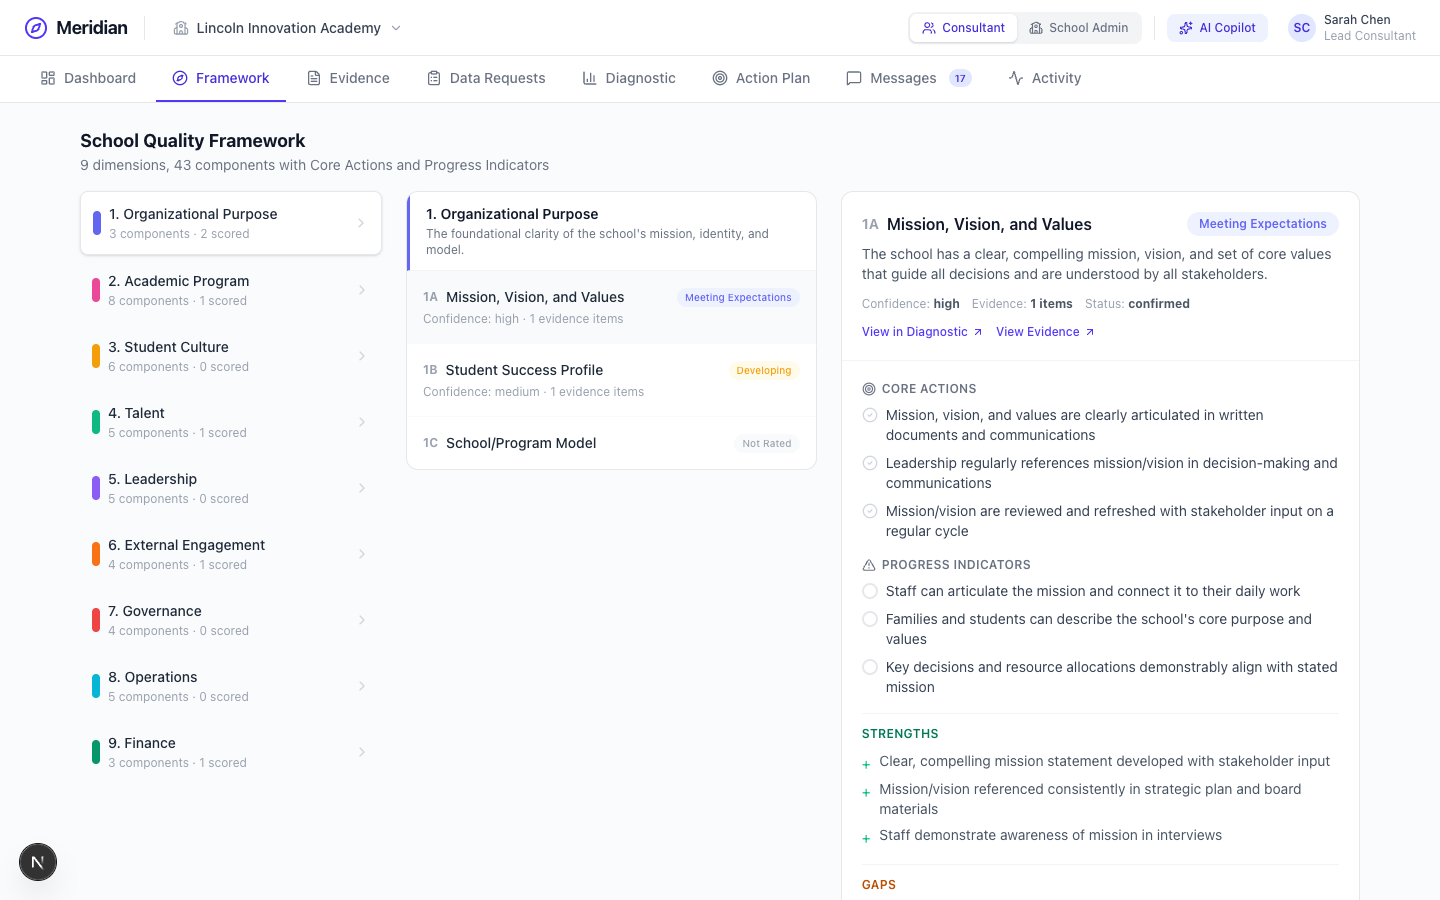
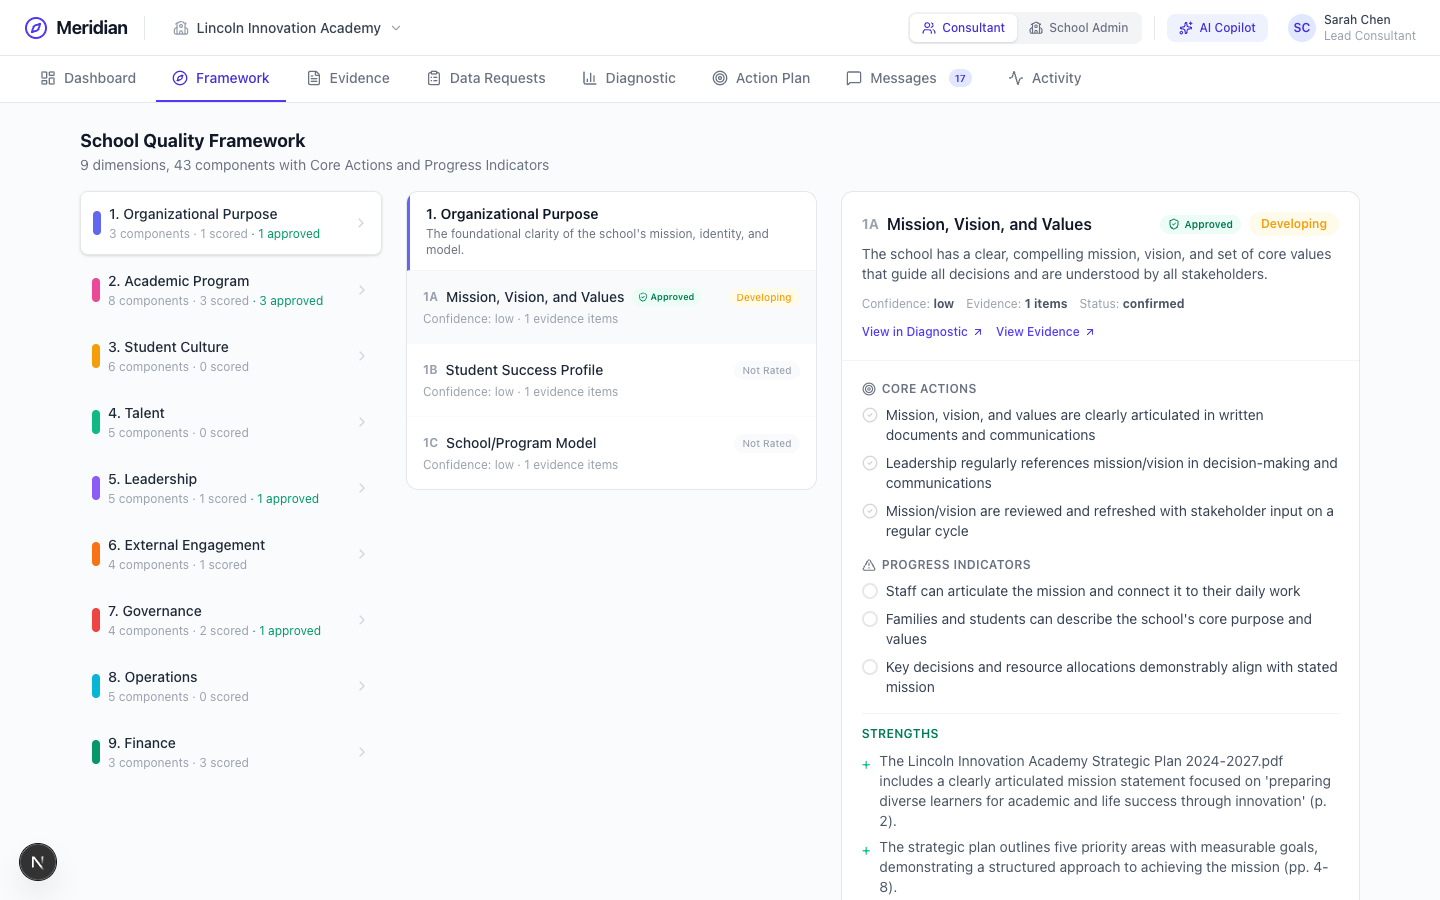
Fix score approval to update status to confirmed
Approval endpoint now sets status="confirmed" (and unapproval resets to "draft")
so the dashboard correctly displays the confirmed count.
Updated screenshots with enriched demo data: 23 evidence items, 11 scored
components, 6 confirmed, dimension syntheses, and executive summary.

diff --git a/backend/app/api/routes.py b/backend/app/api/routes.py
@@ -495,7 +495,10 @@ async def toggle_score_approval(
         raise HTTPException(status_code=404, detail="Score not found")
     score.approved = data.approved
     if data.approved:
+        score.status = "confirmed"
         score.reviewed_at = datetime.utcnow()
+    else:
+        score.status = "draft"
     # Get component name for activity log
     comp_result = await db.execute(select(Component).where(Component.id == score.component_id))
     comp = comp_result.scalar_one_or_none()
